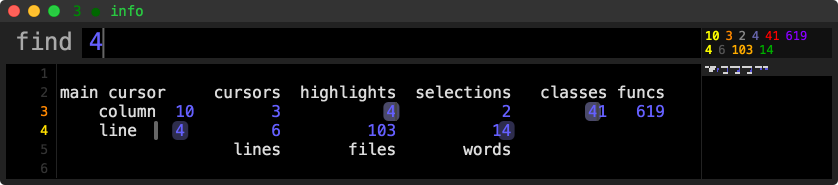
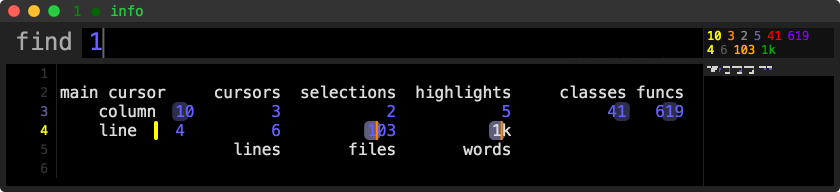
readme

diff --git a/README.md b/README.md
@@ -240,6 +240,7 @@ the mode will deactivate itself automatically in most circumstances. you can als
 the space between the minimaps displays some useful numbers
 - top row:
     - cursor column
+    - cursors
     - [selections]
     - [highlights]
     - indexed classes

diff --git a/md/notes.md b/md/notes.md
@@ -1,5 +1,6 @@
 # todo/ideas
 
+- *fix return in first line*
 - *shift-enter in find command: jump backwards*
 
 - *improve bracket inserting (evaluate brackets in line)*
